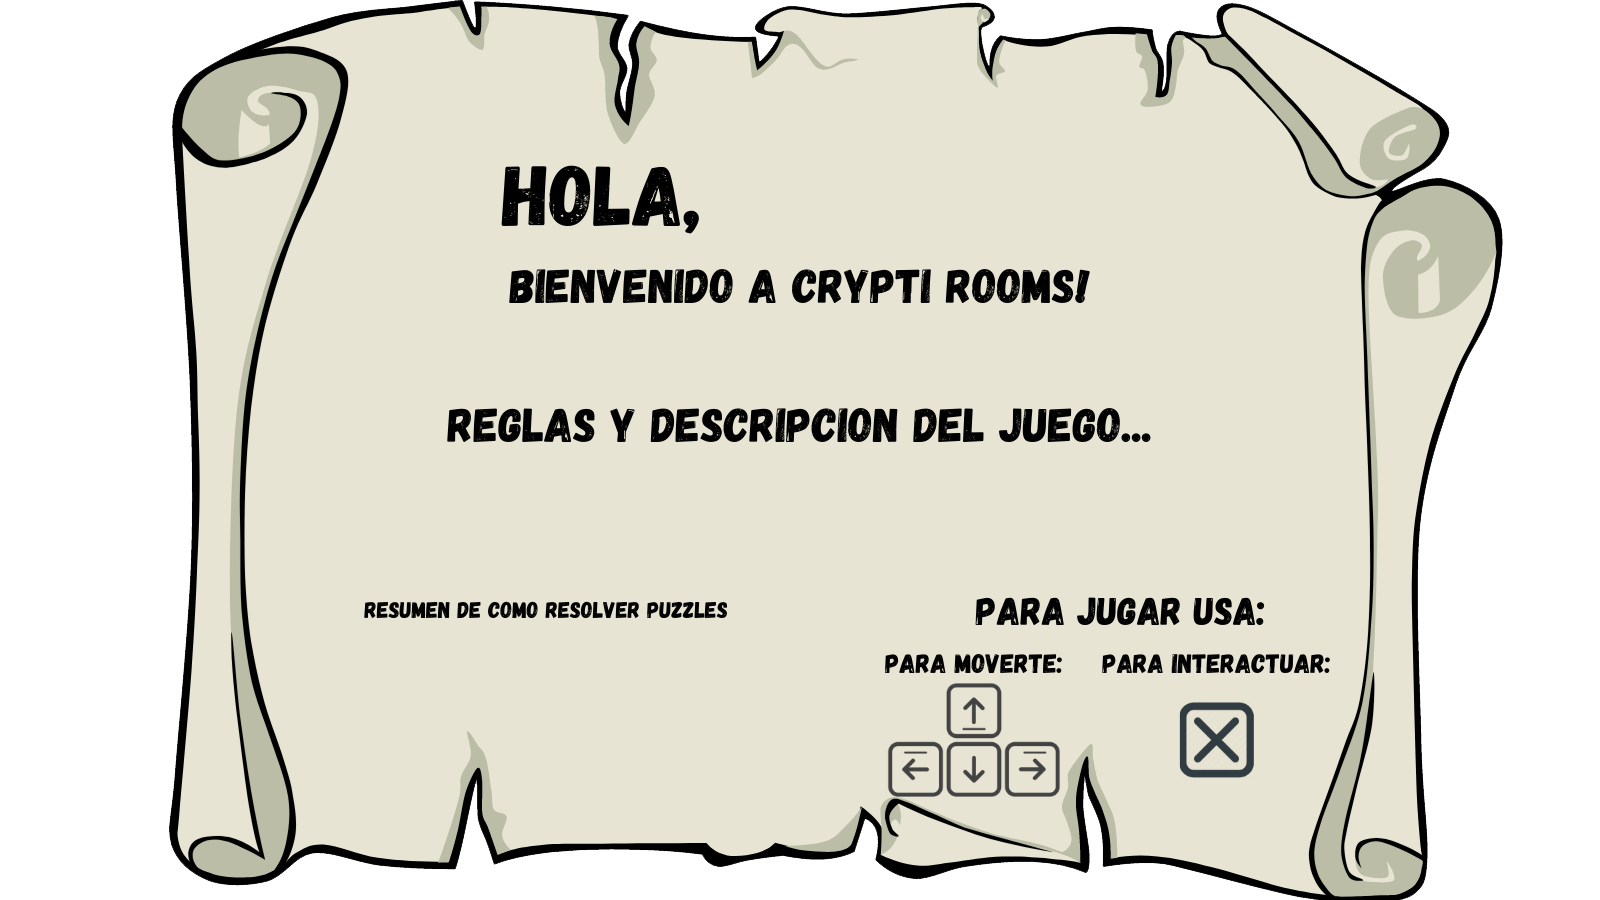
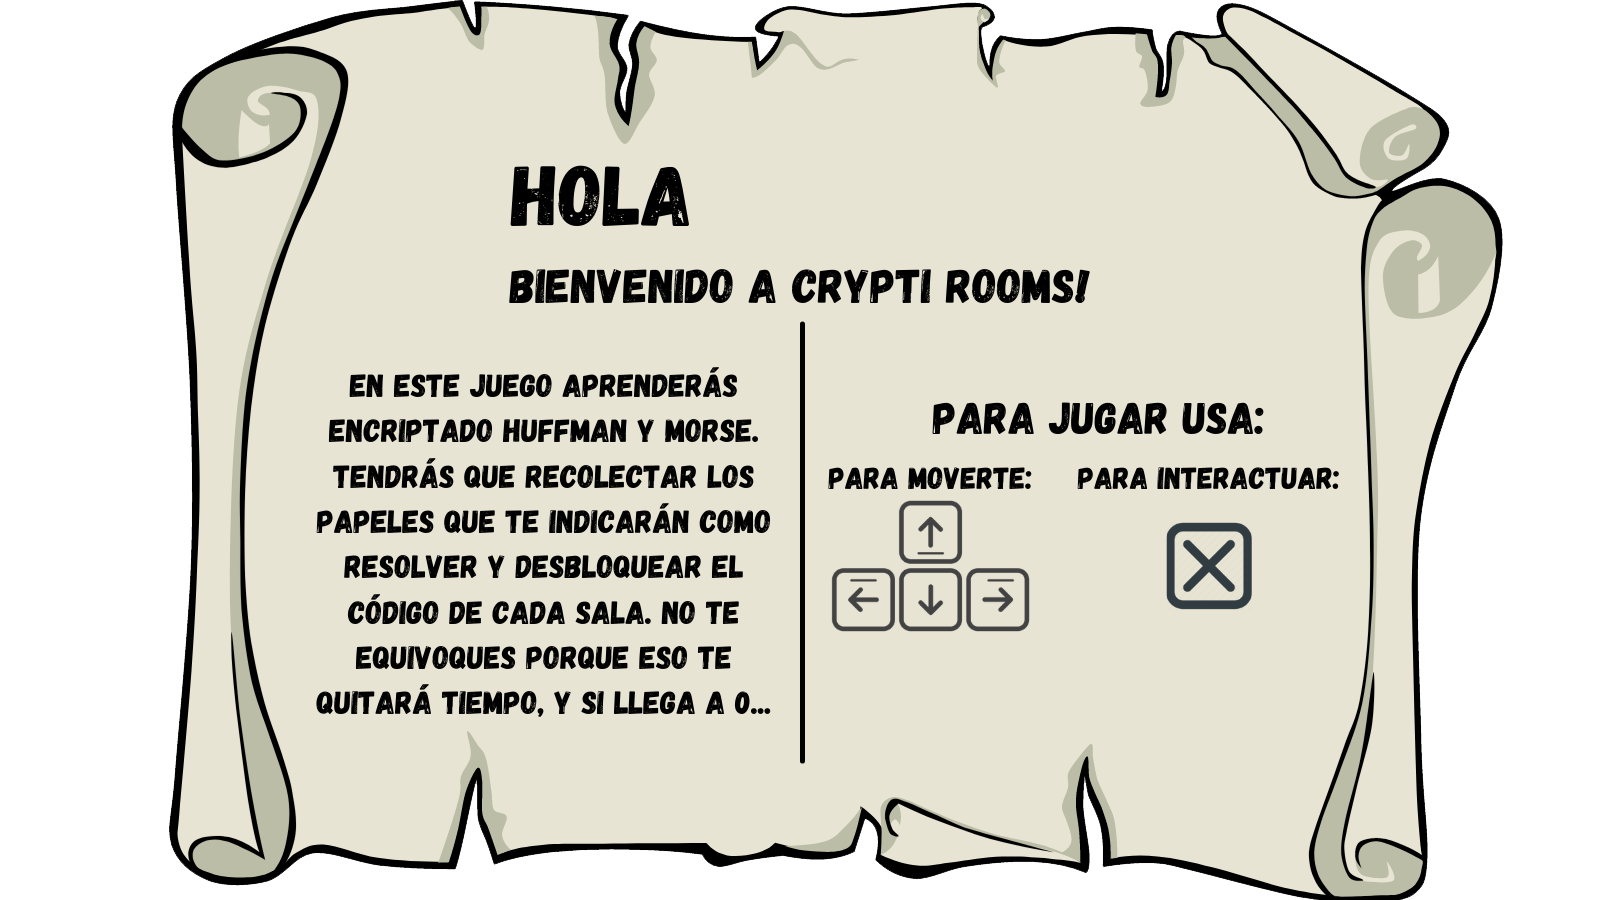
Se agrega el reescalado y la base del nivel 1

Changed region(s): [[0.1875, 0.4044, 0.8438, 0.9022], [0.3125, 0.1867, 0.4375, 0.2489], [0.7188, 0.7778, 0.7812, 0.8711]]

diff --git a/main.py b/main.py
@@ -16,10 +16,16 @@ def main_menu():
             if event.type == pygame.QUIT: #if para saber si se salio el juego
 
                 sys.exit()
-        
-        screen.blit(bg,[0,0]) #set fondo de pantalla
-        button_e = Button(image = botone, pos = (800, 525),text_input="EMPEZAR", font = get_font(70), base_color = "White", hovering_color="#18224C") #agregar botones
-        button_s = Button(image = botons, pos = (800, 775),text_input="SALIR", font = get_font(70), base_color = "White", hovering_color="#18224C") #agregar botones
+
+        bgScale = pygame.transform.scale(bg,(1280,720))
+        botoneScale = pygame.transform.scale(botone,(320,160))
+        botonsScale = pygame.transform.scale(botons,(320,160))
+
+
+        screen.blit(bgScale, [0,0]) #set fondo de pantalla
+         
+        button_e = Button(image = botoneScale, pos = (640, 420),text_input="EMPEZAR", font = get_font(56), base_color = "White", hovering_color="#18224C") #agregar botones
+        button_s = Button(image = botonsScale, pos = (640, 620),text_input="SALIR", font = get_font(56), base_color = "White", hovering_color="#18224C") #agregar botones
 
 
 
@@ -60,13 +66,15 @@ def user_name():
             if event.type == pygame.MOUSEBUTTONDOWN:
                 if button_enter.checkForInput(menu_mouse_pos):
                     tutorial(nombre_user)#play() metodo para ingresar juego
-        screen.blit(bg,[0,0]) #set fondo de pantalla
-        font = get_font(50)
+
+        bgScale = pygame.transform.scale(bg,(1280,720))
+        screen.blit(bgScale,[0,0]) #set fondo de pantalla
+        font = get_font(40)
         textobienvenida = font.render("Bienvenido, inserta tu nombre!",True,(255,255,255))
-        screen.blit(textobienvenida,(475,450))
+        screen.blit(textobienvenida,(380,360))
         
          #BUTTON
-        button_enter = Button(image = botons, pos = (800, 750),text_input="VAMOS!", font = get_font(70), base_color = "White", hovering_color="#18224C") #agregar botones
+        button_enter = Button(image = botons, pos = (640, 600),text_input="VAMOS!", font = get_font(56), base_color = "White", hovering_color="#18224C") #agregar botones
 
         for button in [button_enter]:
             button.changeColor(menu_mouse_pos)
@@ -76,11 +84,11 @@ def user_name():
 
        
         #textbox
-        text_rect = pygame.Rect(650,550,300,50)
-        font = get_font(30)
+        text_rect = pygame.Rect(520,440,240,40)
+        font = get_font(24)
         texto = font.render(nombre_user,True,(255,255,255))
         pygame.draw.rect(screen,(255,255,255),text_rect,5)
-        screen.blit(texto, (text_rect.x + 7, text_rect.y + 7))
+        screen.blit(texto, (text_rect.x + 5.6, text_rect.y + 5.6))
 
        
         pygame.display.update()
@@ -96,25 +104,25 @@ def tutorial(nombre):
                 sys.exit()
             if event.type == pygame.MOUSEBUTTONDOWN:
                 if button_continuar.checkForInput(tutorial_mouse_pos):
-                    pass # funcion que da paso al juego principal
+                    level_1(nombre) # funcion que da paso al juego principal
                 if button_retroceder.checkForInput(tutorial_mouse_pos):
                     main_menu()
 
-        pergaminoScale = pygame.transform.scale(pergaminotuto,(1280,720))
+        pergaminoScale = pygame.transform.scale(pergaminotuto,(1024,576))
         rect = pergaminoScale.get_rect()
-        rect = rect.move((150,100))
+        rect = rect.move((120,80))
 
         screen.blit(pergaminoScale, rect)
 
-        font = get_font(65)
+        font = get_font(52)
         texto_nombre = font.render(nombre,True,(0,0,0))
-        screen.blit(texto_nombre,(720,215))
+        screen.blit(texto_nombre,(576,172))
 
         #Reescalado de boton
         
         #Botones
-        button_continuar = Button(image = None, pos = (1450, 450),text_input="CONTINUAR", font = get_font(50), base_color = "White", hovering_color="Black")
-        button_retroceder = Button(image = None, pos = (150, 450),text_input="RETROCEDER", font = get_font(50), base_color = "White", hovering_color="Black")
+        button_continuar = Button(image = None, pos = (1160, 360),text_input="CONTINUAR", font = get_font(40), base_color = "White", hovering_color="Black")
+        button_retroceder = Button(image = None, pos = (120, 360),text_input="RETROCEDER", font = get_font(40), base_color = "White", hovering_color="Black")
 
         for button in [button_continuar,button_retroceder]:
             button.changeColor(tutorial_mouse_pos)
@@ -124,6 +132,51 @@ def tutorial(nombre):
         clock.tick(60)
 
 
+def game_over():
+    pass
+
+def level_1(nameusr):
+    pygame.display.set_caption("Nivel 1")
+    start_ticks = pygame.time.get_ticks()
+    while True:
+        menu_mouse_pos = pygame.mouse.get_pos()
+        seconds = (pygame.time.get_ticks()-start_ticks)/1000 #calcula segundos
+        if seconds < 300:
+            for event in pygame.event.get(): #recorriendo eventos
+                #print(event)
+                if event.type == pygame.QUIT: #if para saber si se salio el juego
+
+                    sys.exit()
+            #Cargar gui
+            font = get_font(70)
+            #bg
+            screen.blit(bgl1,[0,0])
+            #texto l1
+            textol1 = font.render("Nivel 1",True,(255,255,255))
+            screen.blit(textol1,(75,25))
+            #timer
+            #poner foto
+            textotimer = font.render(str(seconds),True,(255,255,255))
+            screen.blit (textotimer,(750,25))
+
+            #cargar nivel
+            l1Scale = pygame.transform.scale(mapl1,(1000,700))
+
+            screen.blit(l1Scale,[31,125])
+
+
+
+
+            
+
+
+            pygame.display.update()
+            clock.tick(60)
+        else:
+            game_over()
+
+
+
 
 
 pygame.init() #Inicializa pygame
@@ -131,7 +184,7 @@ pygame.init() #Inicializa pygame
 #Definiendo parametros
 clock = pygame.time.Clock()
 
-size = (1600,900) #define tamanio de ventana
+size = (1280,720) #define tamanio de ventana
 
 screen = pygame.display.set_mode(size) #creando nueva ventana
 
@@ -140,6 +193,10 @@ screen = pygame.display.set_mode(size) #creando nueva ventana
 #Recursos del juego
 
 bg = pygame.image.load("ImagesDiscretas/bgmenu.png") #cargar imagen de fondo
+
+bgl1 = pygame.image.load("ImagesDiscretas/fl1.png") #fondo nivel 1
+
+mapl1 = pygame.image.load("ImagesDiscretas/l1.png")
 
 botone = pygame.image.load("ImagesDiscretas/botone.png") #cargar boton empezar ...
 

diff --git a/button.py b/button.py
@@ -12,7 +12,7 @@ class Button():
 		self.rect = self.image.get_rect(center=(self.x_pos, self.y_pos))
 		self.text_rect = self.text.get_rect(center=(self.x_pos, self.y_pos))
 		if self.image is not self.text:
-			self.text_rect = self.text.get_rect(center=(self.x_pos + 60, self.y_pos - 65))
+			self.text_rect = self.text.get_rect(center=(self.x_pos + 48, self.y_pos - 52))
 
 		
 
